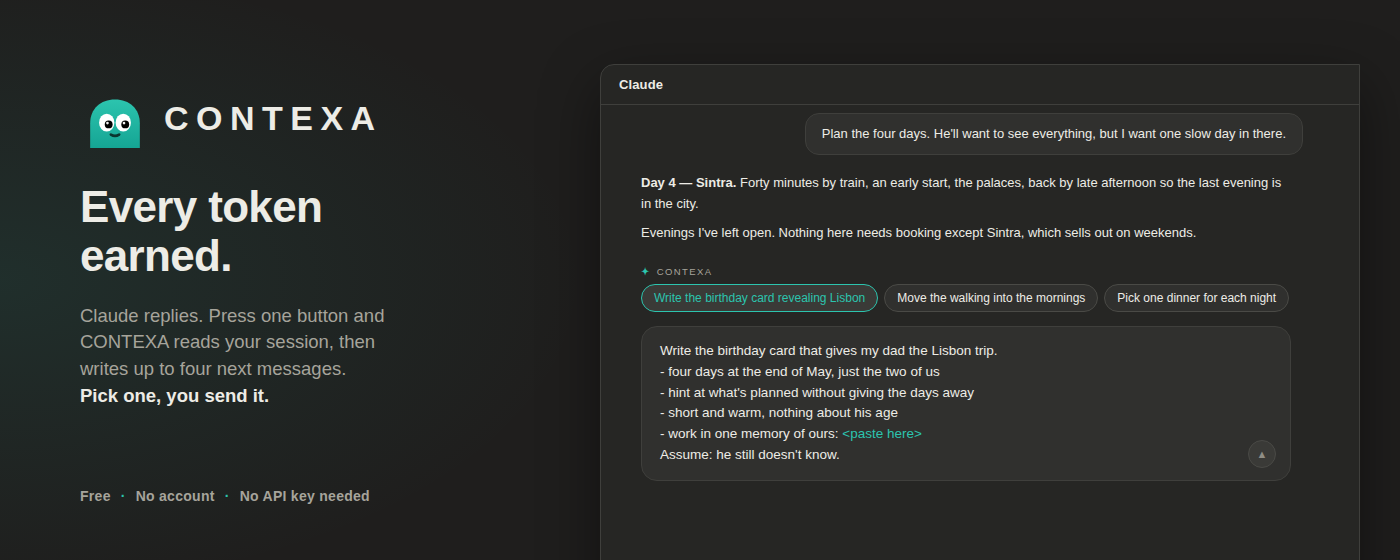
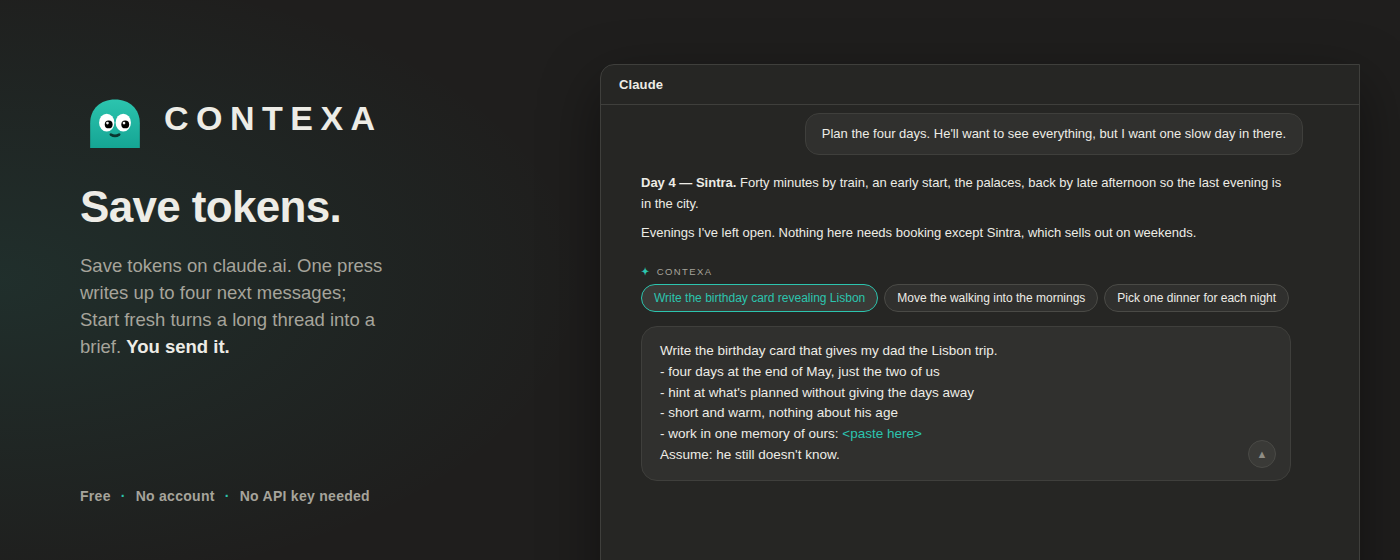
store-assets: promo tiles rebuilt with the motto and the 0.9.95 one-line description
Claude-Session: https://claude.ai/code/session_01UPFWZoNMo2AAyriLGcGcSh

Changed region(s): [[0.0614, 0.5161, 0.2764, 0.6679], [0.0307, 0.3339, 0.2764, 0.4857], [0.0614, 0.6982, 0.1843, 0.7286]]

diff --git a/scripts/promo/tiles.html b/scripts/promo/tiles.html
@@ -122,7 +122,7 @@
     </svg>
     <span class="name">CONTEXA</span>
   </div>
-  <div class="tag">Every token earned.</div>
+  <div class="tag">Save tokens.</div>
   <div class="label"><b>✦</b> CONTEXA</div>
   <div class="chips">
     <span class="chip hover">Write the birthday card revealing Lisbon</span>
@@ -153,8 +153,8 @@
     </svg>
       <span class="name">CONTEXA</span>
     </div>
-    <div class="tag">Every token earned.</div>
-    <p class="lead">Claude replies. Press one button and CONTEXA reads your session, then writes up to four next messages. <b>Pick one, you send it.</b></p>
+    <div class="tag">Save tokens.</div>
+    <p class="lead">Save tokens on claude.ai. One press writes up to four next messages; Start fresh turns a long thread into a brief. <b>You send it.</b></p>
     <div class="foot">Free <i>·</i> No account <i>·</i> No API key needed</div>
   </div>
   <div class="stage">

diff --git a/store-assets/README.md b/store-assets/README.md
@@ -6,7 +6,7 @@ extension or the worker at runtime — the shipped extension icons live in
 
 - `store-icon-128.png` — Chrome Web Store listing icon.
 - `promo-tile-440x280.png`, `promo-marquee-1400x560.png` — the Chrome Web Store
-  promo tiles. **Rebuilt 2026-09-02 against 0.9.68** by
+  promo tiles. **Rebuilt 2026-09-05 against 0.9.95** (the motto "Save tokens." and the 0.9.95 one-line description; before that 2026-09-02 against 0.9.68) by
   `node scripts/promo/render.mjs` from `scripts/promo/tiles.html`; the
   previous pair (in git history) still showed the interview card deleted at
   0.9.58 and the pre-mascot spark icon. Do not retouch these by hand — edit
